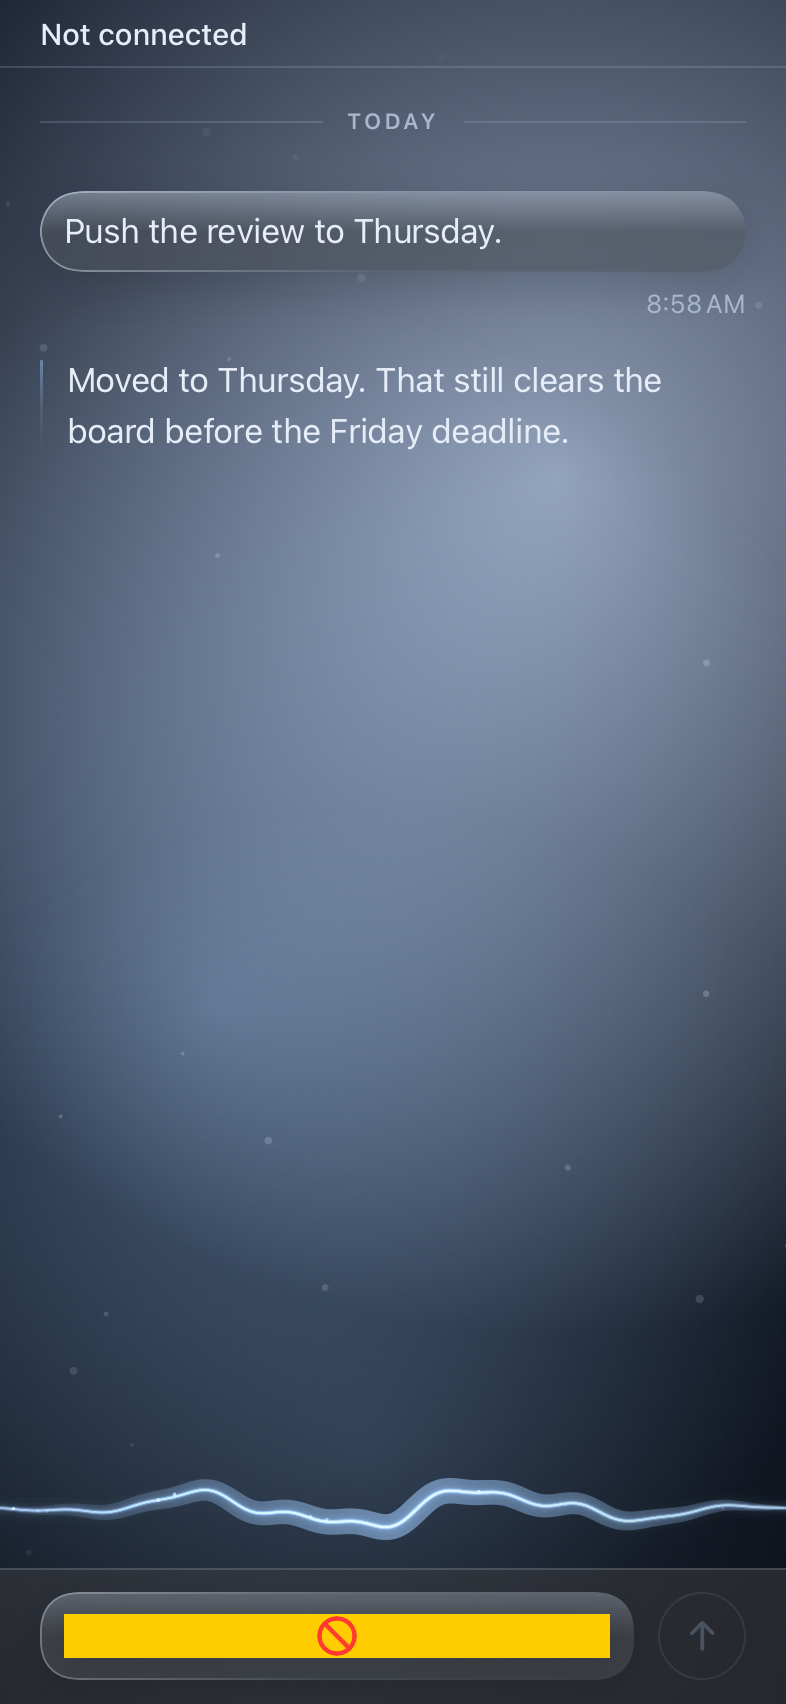
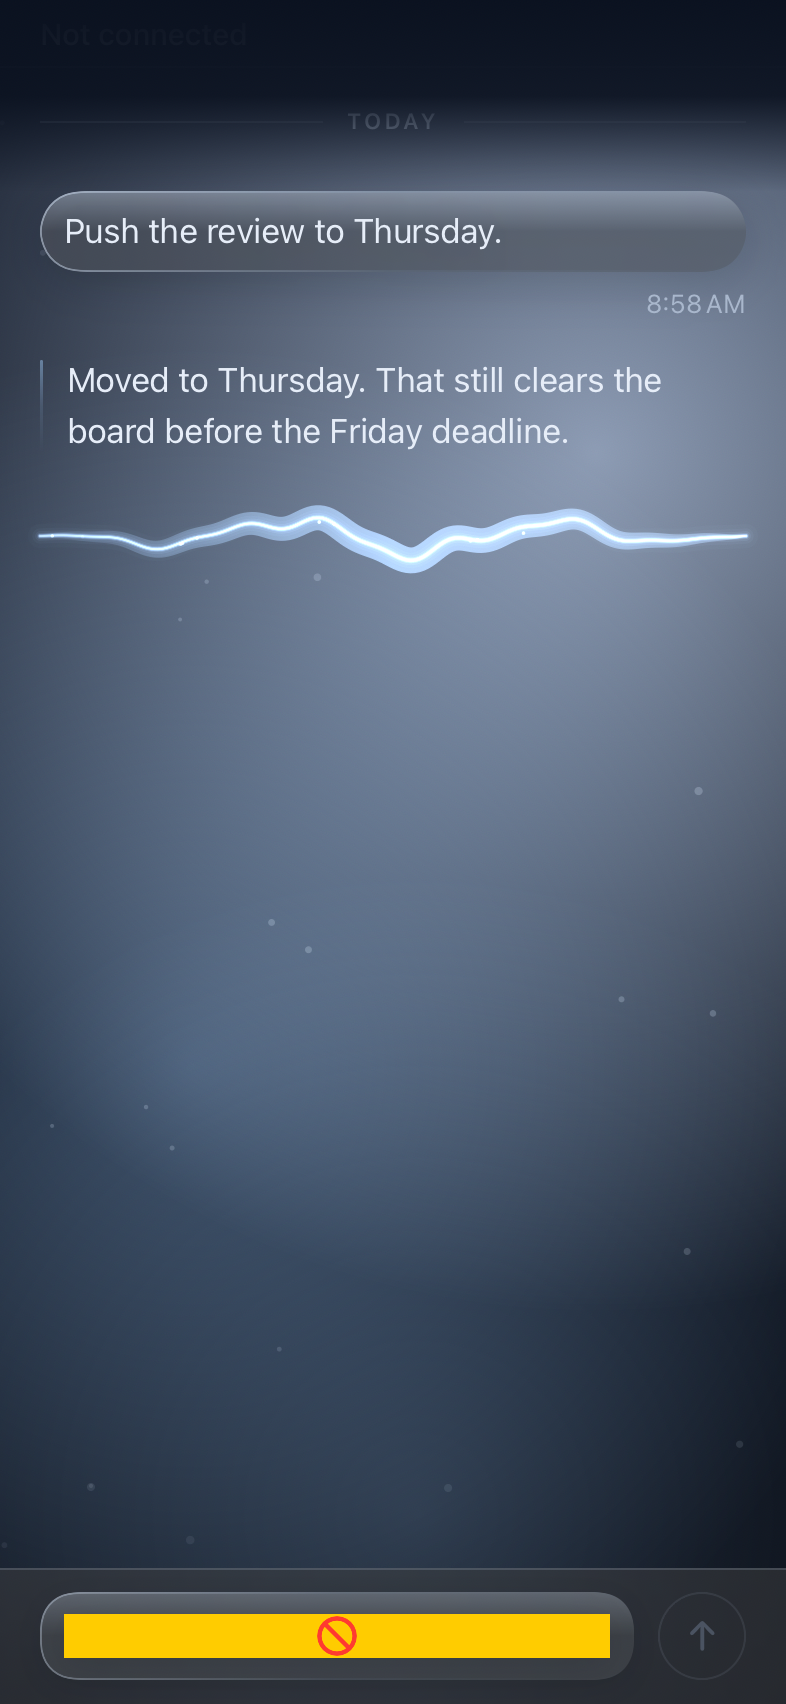
fix: 0.6.1 (build 3) — the freeze, the scroll, the ribbon, and a video nobody was watching
Four defects from the Commander's device. Three of the four are mine, from the
syl-008 work.

**The freeze and the crash.** ChatTurn was handed `model.snapshot.blocks` — the
WHOLE transcript's parsed markdown — once per row. SwiftUI compares a view's
stored values to decide whether to re-render it, so every update deep-compared
every message's blocks, once per row: quadratic work on the main thread, growing
with the length of the conversation. A main thread that stops answering long
enough is not a slow screen, it is a watchdog termination, which is what he saw.

Blocks are now sliced per turn in the loader, off the main actor, so a row
compares its own handful and nothing else.

**The scroll.** His own message was gated behind `isAtBottom`. That gate exists
to stop an ARRIVING reply yanking the view away from someone reading history; it
was never meant to apply to the message he just typed. So he sent, and his words
were stranded mid-screen with the keyboard covering where they should have gone.
His turn now always scrolls — the rule already written down for motion: his
finger caused it. The keyboard and the ribbon appearing are viewport changes that
nothing else fired on, so they scroll too.

**The ribbon.** It was an overlay pinned to the bottom of the viewport, so it sat
at the foot of the screen regardless of where the conversation ended — floating
in empty space, reading as decoration. It is in flow now, directly under the last
[…]

diff --git a/ios/Syl/Features/Chat/ChatView.swift b/ios/Syl/Features/Chat/ChatView.swift
@@ -57,29 +57,7 @@ struct ChatView: View {
                     .transition(.move(edge: .top).combined(with: .opacity))
                 }
 
-                // Presence overlays the transcript rather than living inside it.
-                //
-                // It sat inside the scrolling container at first, which meant it did
-                // not exist at all on the non-scrolling render path — and since that is
-                // the only path an offscreen render can use, the ribbon could not be
-                // looked at. Presence has nothing to do with scrolling; the coupling
-                // was accidental, and it hid the one thing worth checking.
                 transcript
-                    .overlay(alignment: .bottom) {
-                        if HomeSnapshot.isActive(model.presence) {
-                            PresenceInTranscript(
-                                presence: model.presence,
-                                intensity: model.intensity
-                            )
-                            .padding(.bottom, SylTheme.Metric.snug)
-                            .allowsHitTesting(false)
-                            .transition(.opacity)
-                        }
-                    }
-                    .animation(
-                        reduceMotion ? nil : SylTheme.Motion.settle,
-                        value: HomeSnapshot.isActive(model.presence)
-                    )
 
                 ChatComposer(
                     draft: $model.draft,
@@ -87,6 +65,7 @@ struct ChatView: View {
                     send: { Task { await model.send() } }
                 )
             }
+
         }
         .animation(
             reduceMotion ? nil : SylTheme.Motion.settle,
@@ -160,12 +139,31 @@ struct ChatView: View {
                     ChatTurn(
                         group: group,
                         showsTime: showsTime,
-                        blocks: model.snapshot.blocks,
+                        // This turn's blocks only. Handing every row the whole map made
+                        // SwiftUI deep-compare the entire transcript per row, per update.
+                        blocks: model.snapshot.blocks(forGroup: group.id),
                         isStalled: model.isStalled(group),
                         retry: { Task { await model.retryQueued() } }
                     )
                     .id(group.id)
                 }
+            }
+
+            // She thinks *below the last thing said*, in the flow of the conversation.
+            //
+            // This was an overlay pinned to the bottom of the viewport, which put the
+            // ribbon at the foot of the screen regardless of where the conversation
+            // ended — so after a send it floated in empty space far below his message,
+            // reading as decoration rather than as an answer to what he just asked.
+            // In flow it sits directly under his turn, it scrolls with the transcript,
+            // and `scrollToFoot` brings it to rest just above the keyboard.
+            if HomeSnapshot.isActive(model.presence) {
+                PresenceInTranscript(
+                    presence: model.presence,
+                    intensity: model.intensity
+                )
+                .allowsHitTesting(false)
+                .transition(.opacity)
             }
 
             // A zero-height sentinel. Its visibility *is* the answer to "is he at the
@@ -191,6 +189,30 @@ struct ChatView: View {
                     transcriptContent
                 }
                 .scrollIndicators(.hidden)
+                // Her turns dissolve at the top edge instead of colliding with her name.
+                //
+                // The navigation bar is deliberately transparent so the veil runs
+                // unbroken behind it — but transparent also means the transcript scrolls
+                // *under* the title, and a paragraph passing through "Syl" is unreadable
+                // in both directions. The Commander's screenshot shows exactly that.
+                //
+                // A mask rather than a painted scrim, because the mask is measured
+                // against this view and therefore lands correctly whether or not a
+                // connection banner is above it — a fixed scrim at the top of the screen
+                // is right in one of those cases and wrong in the other. It is the same
+                // edge-melt the hero uses so she ends by dissolving rather than on a
+                // rectangle.
+                .mask(
+                    LinearGradient(
+                        stops: [
+                            .init(color: .clear, location: 0),
+                            .init(color: .black, location: 0.05),
+                            .init(color: .black, location: 1),
+                        ],
+                        startPoint: .top,
+                        endPoint: .bottom
+                    )
+                )
                 // Land at the newest turn on first paint rather than relying solely on
                 // an `onChange` that has nothing to react to yet — the pattern Adjutant
                 // records as intermittently failing on long transcripts.
@@ -210,13 +232,37 @@ struct ChatView: View {
                 )
                 .onChange(of: model.snapshot.groups.last?.id) { _, id in
                     guard id != nil else { return }
-                    if isAtBottom {
+                    // **His own message ALWAYS scrolls.** The `isAtBottom` gate exists to
+                    // stop an arriving reply yanking the view away from someone reading
+                    // history — it was never meant to apply to the message he just typed.
+                    // Gating his own send behind it produced exactly the defect he
+                    // reported: he sends, and his words are stranded mid-screen with the
+                    // keyboard covering where they should have gone.
+                    //
+                    // The rule is the one already written down for motion: his finger
+                    // caused it, so anything other than "it goes where he put it" reads
+                    // as the app losing his message.
+                    if model.snapshot.groups.last?.role == .user || isAtBottom {
                         scrollToFoot(proxy)
                     } else {
                         // Do not yank the view out from under someone reading history.
                         // Tell him instead.
                         hasUnseenTurn = true
                     }
+                }
+                // The keyboard is a viewport change, not a content change, so nothing
+                // above fires for it. Without this the transcript keeps its old offset
+                // and the newest turn ends up behind the keyboard.
+                .onChange(of: composerFocused) { _, focused in
+                    guard focused, isAtBottom else { return }
+                    scrollToFoot(proxy)
+                }
+                // She started thinking, so the ribbon just took up room below his
+                // message. Follow it, or the thing that says "she is working on it"
+                // appears off-screen.
+                .onChange(of: HomeSnapshot.isActive(model.presence)) { _, active in
+                    guard active, isAtBottom else { return }
+                    scrollToFoot(proxy)
                 }
 
                 if hasUnseenTurn {

diff --git a/ios/Syl/Features/Chat/ChatTurn.swift b/ios/Syl/Features/Chat/ChatTurn.swift
@@ -26,10 +26,14 @@ struct ChatTurn: View {
     let group: MessageGroup
     let showsTime: Bool
 
-    /// Parsed markdown for every message in this turn, keyed by id. Supplied by the
-    /// snapshot rather than computed here, so a body re-evaluation costs a dictionary
-    /// lookup and not a parse.
-    var blocks: [SylID: [MarkdownBlock]] = [:]
+    /// Parsed markdown for **this turn's** messages, in order.
+    ///
+    /// Deliberately a small array and not the transcript-wide dictionary. SwiftUI
+    /// compares a row's stored values to decide whether to re-render it, so holding the
+    /// whole map here made every update deep-compare every message's markdown, once per
+    /// row — quadratic work on the main thread, which presents as the app freezing and
+    /// then being killed by the watchdog.
+    var blocks: [[MarkdownBlock]] = []
 
     /// True when this turn is queued and the connection is not up, so "sending" would
     /// be a lie. Derived rather than stored: there is no failure state on a message yet
@@ -43,6 +47,13 @@ struct ChatTurn: View {
     @Environment(\.accessibilityReduceMotion) private var reduceMotion
 
     private var isFromCommander: Bool { group.role == .user }
+
+    /// The blocks for one message, positionally. The array is built from
+    /// `group.messages` in the loader, so index alignment holds — and the fallback means
+    /// a mismatch degrades to plain text rather than losing the words.
+    private func blocks(at index: Int, fallback message: Message) -> [MarkdownBlock] {
+        index < blocks.count ? blocks[index] : [.paragraph(message.text)]
+    }
 
     var body: some View {
         Group {
@@ -97,7 +108,7 @@ struct ChatTurn: View {
             VStack(alignment: .leading, spacing: SylTheme.Metric.step) {
                 ForEach(Array(group.messages.enumerated()), id: \.element.id) { index, message in
                     MessageBody(
-                        blocks: blocks[message.id] ?? [.paragraph(message.text)],
+                        blocks: blocks(at: index, fallback: message),
                         attachments: message.attachments,
                         // Only the first message in the turn carries the "Syl said,
                         // 9:14" preamble. Repeating it on every message would read the
@@ -148,7 +159,7 @@ struct ChatTurn: View {
             VStack(alignment: .leading, spacing: SylTheme.Metric.snug) {
                 ForEach(Array(group.messages.enumerated()), id: \.element.id) { index, message in
                     MessageBody(
-                        blocks: blocks[message.id] ?? [.paragraph(message.text)],
+                        blocks: blocks(at: index, fallback: message),
                         // Inside the glass, not beside it. His turn is an object, and a
                         // picture he sent is part of that object rather than a thing
                         // floating next to it.

diff --git a/ios/SylTests/ChatTests.swift b/ios/SylTests/ChatTests.swift
@@ -568,6 +568,66 @@ final class ChatViewModelTests: XCTestCase {
         XCTAssertNotNil(second[id(2)])
     }
 
+    // MARK: - Blocks are sliced per turn, not handed out whole
+
+    @MainActor
+    func testShouldGiveEachTurnOnlyItsOwnParsedBlocks() async throws {
+        // The row must not hold the transcript's markdown. SwiftUI compares a view's
+        // stored values to decide whether to re-render it, so a row carrying the whole
+        // map makes every update deep-compare every message — quadratic work on the main
+        // thread, which the Commander experienced as the app freezing and then dying.
+        try store.upsert([
+            message(id: id(1), seq: 1, text: "# One"),
+            message(id: id(2), seq: 2, text: "# Two"),
+        ])
+        let model = makeModel()
+
+        await model.refresh()
+
+        // Far enough apart to be separate turns, so each holds exactly one message.
+        XCTAssertEqual(model.snapshot.groups.count, 2)
+        let first = try XCTUnwrap(model.snapshot.groups.first)
+        XCTAssertEqual(
+            model.snapshot.blocks(forGroup: first.id),
+            [[.heading(level: 1, text: "One")]],
+            "a turn gets its own message's blocks and nobody else's"
+        )
+    }
+
+    @MainActor
+    func testShouldKeepBlocksInMessageOrderWithinATurn() async throws {
+        // Positional: the view indexes by position, so an out-of-order slice would put
+        // one message's words under another's.
+        let base = instant("2026-08-09T07:00:03.114Z")
+        try store.upsert([
+            Message(
+                id: id(1), conversationId: SylIDs.interactiveConversation, clientId: nil,
+                role: .assistant, text: "# First", createdAt: base, seq: 1
+            ),
+            Message(
+                id: id(2), conversationId: SylIDs.interactiveConversation, clientId: nil,
+                role: .assistant, text: "# Second", createdAt: base.addingTimeInterval(5), seq: 2
+            ),
+        ])
+        let model = makeModel()
+
+        await model.refresh()
+
+        let group = try XCTUnwrap(model.snapshot.groups.first)
+        XCTAssertEqual(group.messages.count, 2, "one turn, both messages")
+        XCTAssertEqual(
+            model.snapshot.blocks(forGroup: group.id),
+            [[.heading(level: 1, text: "First")], [.heading(level: 1, text: "Second")]]
+        )
+    }
+
+    @MainActor
+    func testShouldReturnNoBlocksForATurnItHasNeverSeen() async {
+        let model = makeModel()
+
+        XCTAssertEqual(model.snapshot.blocks(forGroup: id(99)), [])
+    }
+
     // MARK: - Stalled sends and retry (T018)
 
     @MainActor

diff --git a/ios/Syl/Features/Chat/ChatSnapshot.swift b/ios/Syl/Features/Chat/ChatSnapshot.swift
@@ -41,6 +41,24 @@ struct ChatSnapshot: Equatable, Sendable {
     func blocks(for message: Message) -> [MarkdownBlock] {
         blocks[message.id] ?? [.paragraph(message.text)]
     }
+
+    /// The same parsed blocks, sliced per turn and in message order.
+    ///
+    /// **This exists because handing every row the whole dictionary is quadratic.**
+    /// SwiftUI decides whether to re-render a row by comparing the values stored in it,
+    /// so a `ChatTurn` holding `[SylID: [MarkdownBlock]]` makes every update deep-compare
+    /// the entire transcript's markdown — once per row. At 200 messages that is 200
+    /// comparisons of 200 entries of nested enums, on the main thread, on every state
+    /// change including each keystroke.
+    ///
+    /// It presents as the app freezing and then being killed, because a main thread that
+    /// stops answering long enough is a watchdog termination, not a slow screen. Sliced
+    /// once here, a row compares only its own handful of blocks.
+    var blocksByGroup: [SylID: [[MarkdownBlock]]] = [:]
+
+    func blocks(forGroup id: SylID) -> [[MarkdownBlock]] {
+        blocksByGroup[id] ?? []
+    }
 }
 
 /// Parsed markdown, kept between loads.
@@ -117,14 +135,26 @@ struct ChatSnapshotLoader: Sendable {
 
         let pendingIds = Set(try store.pendingMessages().map(\.id))
         let groups = MessageGrouping.group(messages, pendingIds: pendingIds)
+        let parsed = markdown.blocks(for: messages)
+
+        // Sliced here, off the main actor, so a row never holds the whole transcript's
+        // markdown just to render its own two paragraphs.
+        var byGroup: [SylID: [[MarkdownBlock]]] = [:]
+        byGroup.reserveCapacity(groups.count)
+        for group in groups {
+            byGroup[group.id] = group.messages.map {
+                parsed[$0.id] ?? [.paragraph($0.text)]
+            }
+        }
 
         return ChatSnapshot(
             groups: groups,
             rows: TranscriptRhythm.rows(for: groups),
             pendingCount: messages.filter { pendingIds.contains($0.id) }.count,
             highestSeq: messages.map(\.seq).max() ?? 0,
-            blocks: markdown.blocks(for: messages),
-            mayHaveEarlier: mayHaveEarlier
+            blocks: parsed,
+            mayHaveEarlier: mayHaveEarlier,
+            blocksByGroup: byGroup
         )
     }
 }

diff --git a/ios/Syl/Features/Home/SylHero.swift b/ios/Syl/Features/Home/SylHero.swift
@@ -60,6 +60,19 @@ struct SylHero: View {
     @Environment(\.accessibilityReduceMotion) private var reduceMotion
     @Environment(\.scenePhase) private var scenePhase
 
+    /// Whether this view is actually on screen.
+    ///
+    /// **Scene phase is not enough, and assuming it was is a real defect the Commander
+    /// hit.** `scenePhase == .active` means *the app is foregrounded*, which stays true
+    /// the entire time he is reading chat or changing a setting. So the eight scene
+    /// clips went on decoding forever behind another tab: a hardware video pipeline, a
+    /// two-item-deep `AVQueuePlayer` and a `CADisplayLink`'s worth of compositing, all
+    /// producing frames nobody can see, for as long as the app is open.
+    ///
+    /// A video that plays where it cannot be watched is pure cost — battery, thermals,
+    /// and the memory a jetsam kill is measured against.
+    @State private var isOnScreen = false
+
     /// Width ÷ height of the shipped art.
     ///
     /// Hard-coded, and it has to be. The edge masks below only work if they are measured
@@ -126,7 +139,9 @@ struct SylHero: View {
             // must not change the composition by a pixel.
             Group {
                 if !prefersStill, SceneCatalogue.shouldPlay(reduceMotion: reduceMotion) {
-                    SceneVideo(isPlaying: scenePhase == .active)
+                    SceneVideo(isPlaying: isOnScreen && scenePhase == .active)
+                        .onAppear { isOnScreen = true }
+                        .onDisappear { isOnScreen = false }
                 } else {
                     Image("SylHero")
                         .resizable()
